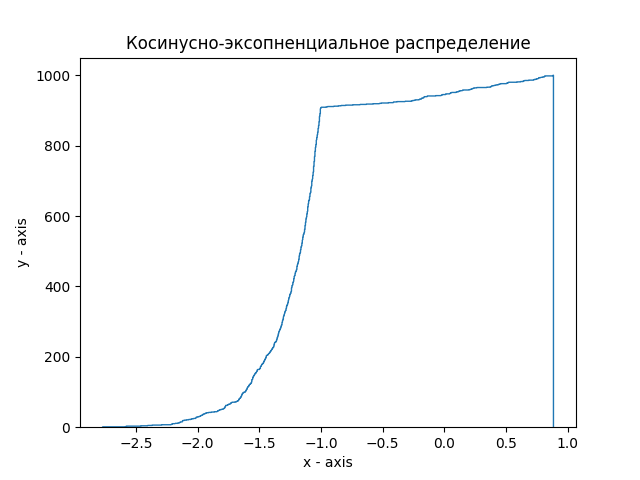
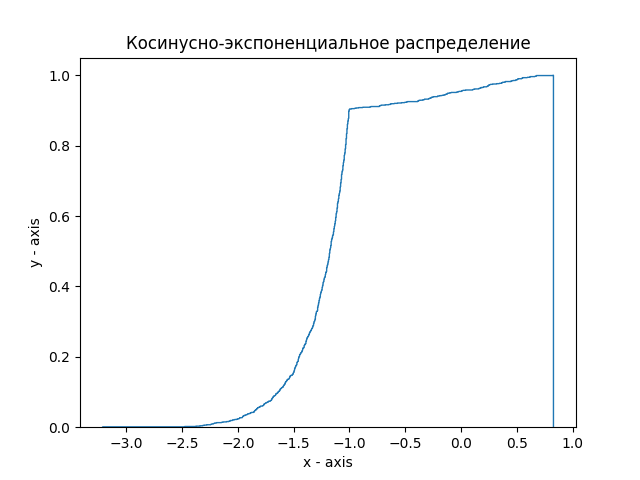
Some changes to TPI lab

diff --git a/SPPMI/TPI/lab/main.py b/SPPMI/TPI/lab/main.py
@@ -1,6 +1,7 @@
 # importing the required module
 import math
 import random as rand
+from scipy.stats import gaussian_kde
 
 import matplotlib.pyplot as plt
 
@@ -8,16 +9,23 @@ V_FORM = 0.1
 B1 = 1.03
 DISPERSION = 0.39
 EXCESS = 3.36
+CAPACITY = 1000
 
 B4 = 2 * B1 * math.tan(B1)
 
-
-def cos_exp_distribution():
+def cos_exp_clean(v, b1, b4):
+    """
+    Генерация случайной величины на основе косинусно-эконенциального распределения
+    :param v: параметр формы
+    :param b1: параметр b1
+    :param b4: параметр b4
+    :return: значение случайной величины
+    """
     r1 = rand.random()
-    if r1 >= V_FORM:
+    if r1 >= v:
         r4 = rand.random()
-        x2 = 1 - math.log(r4) / B4
-        if r1 < V_FORM / 2:
+        x2 = 1 - math.log(r4) / b4
+        if r1 < v / 2:
             return x2
         else:
             return -x2
@@ -26,22 +34,22 @@ def cos_exp_distribution():
             r2 = rand.random()
             r3 = rand.random()
             x1 = 2 * r2 - 1
-            if r3 <= math.pow(math.cos(B1 * x1), 2):
+            if r3 <= math.pow(math.cos(b1 * x1), 2):
                 return x1
 
-
-
 res = []
-for i in range(0, 1000):
-    res_value = cos_exp_distribution()
-    print(f'{i}-ая итерация. Результат: {res_value}')
+for i in range(0, CAPACITY):
+    res_value = cos_exp_clean(V_FORM, B1, B4)
+    # print(f'{i}-ая итерация. Результат: {res_value}')
     res.append(res_value)
 
     # print(cos_exp_distribution())
-print(res)
+# print(res)
+density = gaussian_kde(res)
 # # plotting the points
-# plt.plot(res)
-plt.hist(res, histtype='step', cumulative=True, bins=len(res))
+plt.plot(density)
+# plt.hist(res, histtype='step', density=True, cumulative=True, bins=len(res))
+#plt.hist(res, density=True, histtype='stepfilled', bins=len(res))
 # naming the x axis
 plt.xlabel('x - axis')
 # naming the y axis
